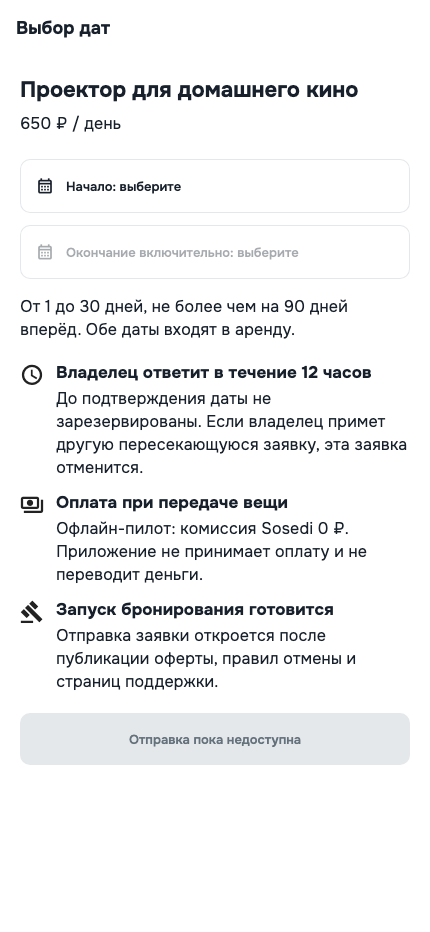
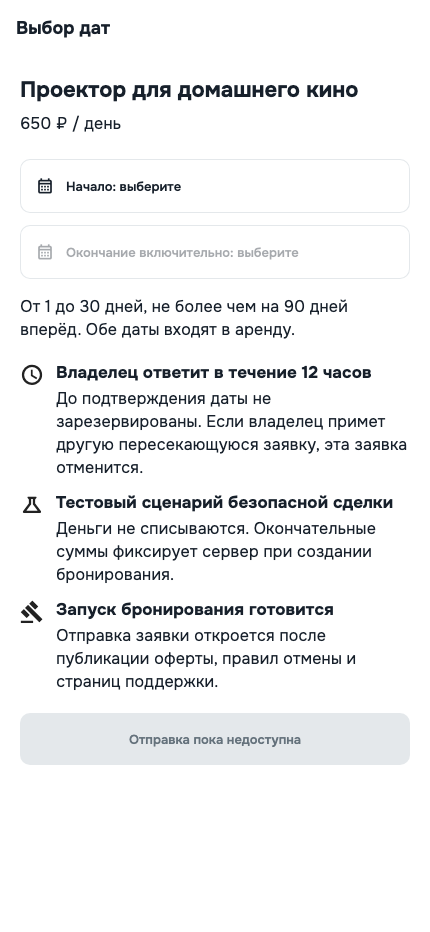
fix(mobile): stabilize pilot screenshot fixtures

Changed region(s): [[0.0302, 0.529, 0.907, 0.6223]]

diff --git a/mobile/tool/capture_client_screenshots_test.dart b/mobile/tool/capture_client_screenshots_test.dart
@@ -41,6 +41,8 @@ import 'package:mobile/features/item/presentation/owned_items_screen.dart';
 import 'package:mobile/features/notifications/data/inbox_event.dart';
 import 'package:mobile/features/notifications/data/inbox_service.dart';
 import 'package:mobile/features/notifications/presentation/inbox_screen.dart';
+import 'package:mobile/features/payments/data/marketplace_policy_models.dart';
+import 'package:mobile/features/payments/data/marketplace_policy_service.dart';
 import 'package:mobile/features/profile/data/profile_models.dart';
 import 'package:mobile/features/profile/data/profile_service.dart';
 import 'package:mobile/features/profile/domain/session_controller.dart';
@@ -200,7 +202,7 @@ void main() {
       overrides: [
         bookingDetailsProvider(
           'booking-confirmed',
-        ).overrideWith((ref) async => _confirmedBooking),
+        ).overrideWith((ref) async => _successfulFakeBooking),
         bookingActsProvider(
           'booking-confirmed',
         ).overrideWith((ref) async => <BookingAct>[]),
@@ -209,8 +211,6 @@ void main() {
     prepare: (tester) async {
       await tester.drag(find.byType(ListView).first, const Offset(0, -650));
       await tester.pump(const Duration(milliseconds: 200));
-      await tester.tap(find.widgetWithText(FilledButton, 'Успешная оплата'));
-      await tester.pump(const Duration(milliseconds: 500));
     },
   );
   _screenshot(
@@ -464,7 +464,11 @@ Widget _scope(
   List<Object> overrides = const [],
 }) {
   return ProviderScope(
-    overrides: [?authOverride, ...overrides].cast(),
+    overrides: [
+      marketplacePolicyProvider.overrideWith((ref) async => _fakePolicy),
+      ?authOverride,
+      ...overrides,
+    ].cast(),
     child: RepaintBoundary(
       key: _captureKey,
       child: MaterialApp(
@@ -699,6 +703,17 @@ const _category = CatalogCategory(
   safetyNotice: 'Проверьте состояние вещи при передаче.',
 );
 
+const _fakePolicy = MarketplacePolicy(
+  paymentScenario: PaymentScenario.fakeSafeDeal,
+  deposit: MarketplaceDepositPolicy(
+    enabled: true,
+    currency: 'RUB',
+    maximumMinor: 10000000,
+    policyVersion: 'fake-v1',
+    disputeWindowSeconds: 86400,
+  ),
+);
+
 final _catalogItems = [
   _catalogItem(
     id: 'item-1',
@@ -814,6 +829,46 @@ final _confirmedBooking = _booking(
     description: 'Согласуйте время в чате и проверьте акт передачи.',
   ),
   handover: _confirmedHandover,
+);
+
+final _successfulFakeBooking = _confirmedBooking.copyWith(
+  terms: const BookingTerms(
+    itemTitle: 'Проектор для домашнего кино',
+    lenderDisplayName: 'Иван',
+    pricePerDay: 650,
+    days: 2,
+    rentalSubtotal: 1300,
+    depositAmount: 50,
+    platformFee: 13,
+    ownerPayout: 1287,
+    total: 1350,
+    currency: 'RUB',
+    paymentScenario: 'FAKE_SAFE_DEAL',
+    moneyMinor: BookingMoneyMinor(
+      pricePerDay: 65000,
+      rentalSubtotal: 130000,
+      deposit: 5000,
+      platformFee: 1300,
+      ownerPayout: 128700,
+      total: 135000,
+    ),
+    depositTerms: BookingDepositTerms(
+      policyVersion: 'fake-v1',
+      disputeWindowSeconds: 86400,
+    ),
+    listingVersion: '2026-08-10:1',
+    offerVersion: 'demo-2026-08-21',
+    cancellationPolicyVersion: 'demo-2026-08-21',
+  ),
+  payment: const ParticipantPayment(amountMinor: 135000, status: 'SUCCEEDED'),
+  deposit: const ParticipantDeposit(
+    amountMinor: 5000,
+    status: 'HELD',
+    refundedMinor: 0,
+    releasedToLenderMinor: 0,
+    policyVersion: 'fake-v1',
+    disputeWindowEndsAt: null,
+  ),
 );
 
 final _activeBooking = _booking(
